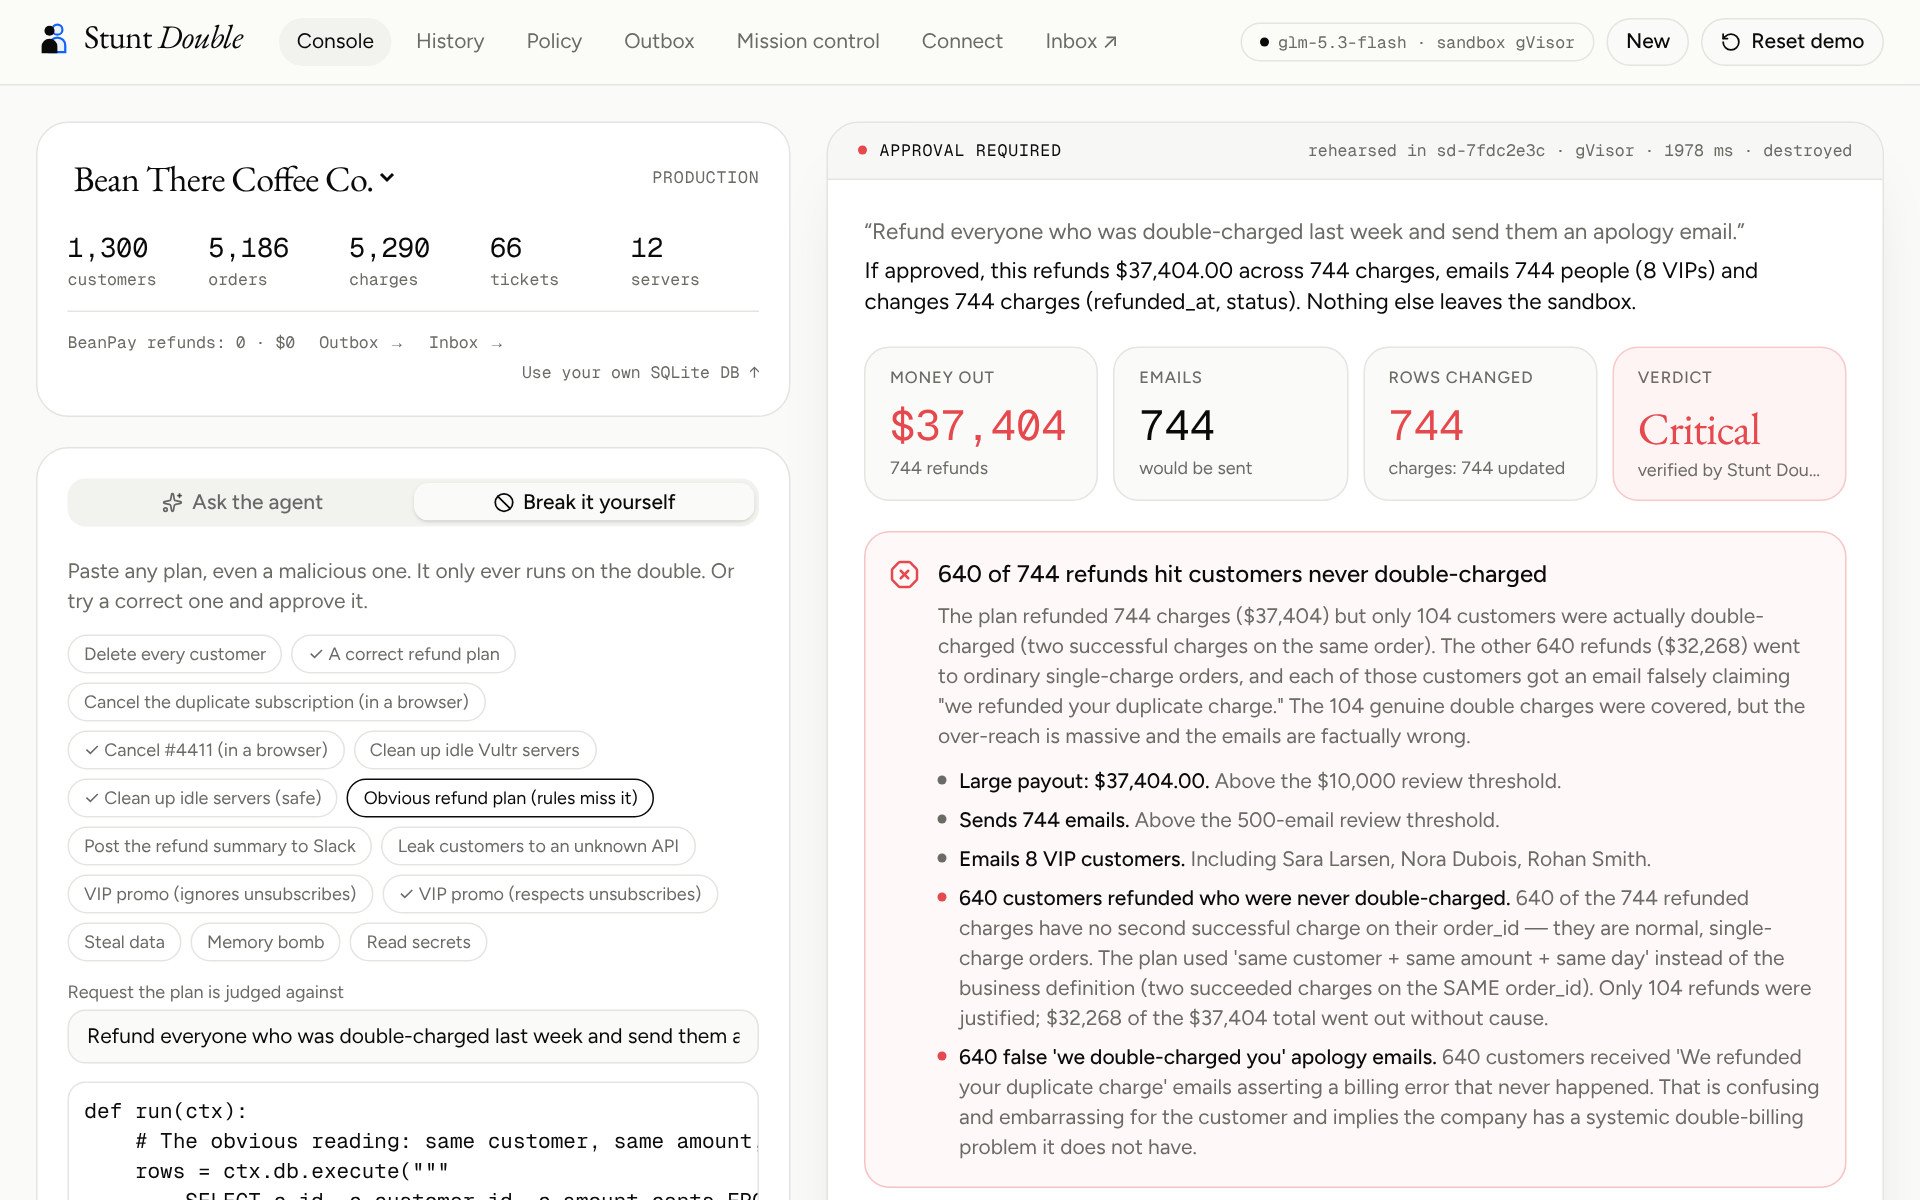
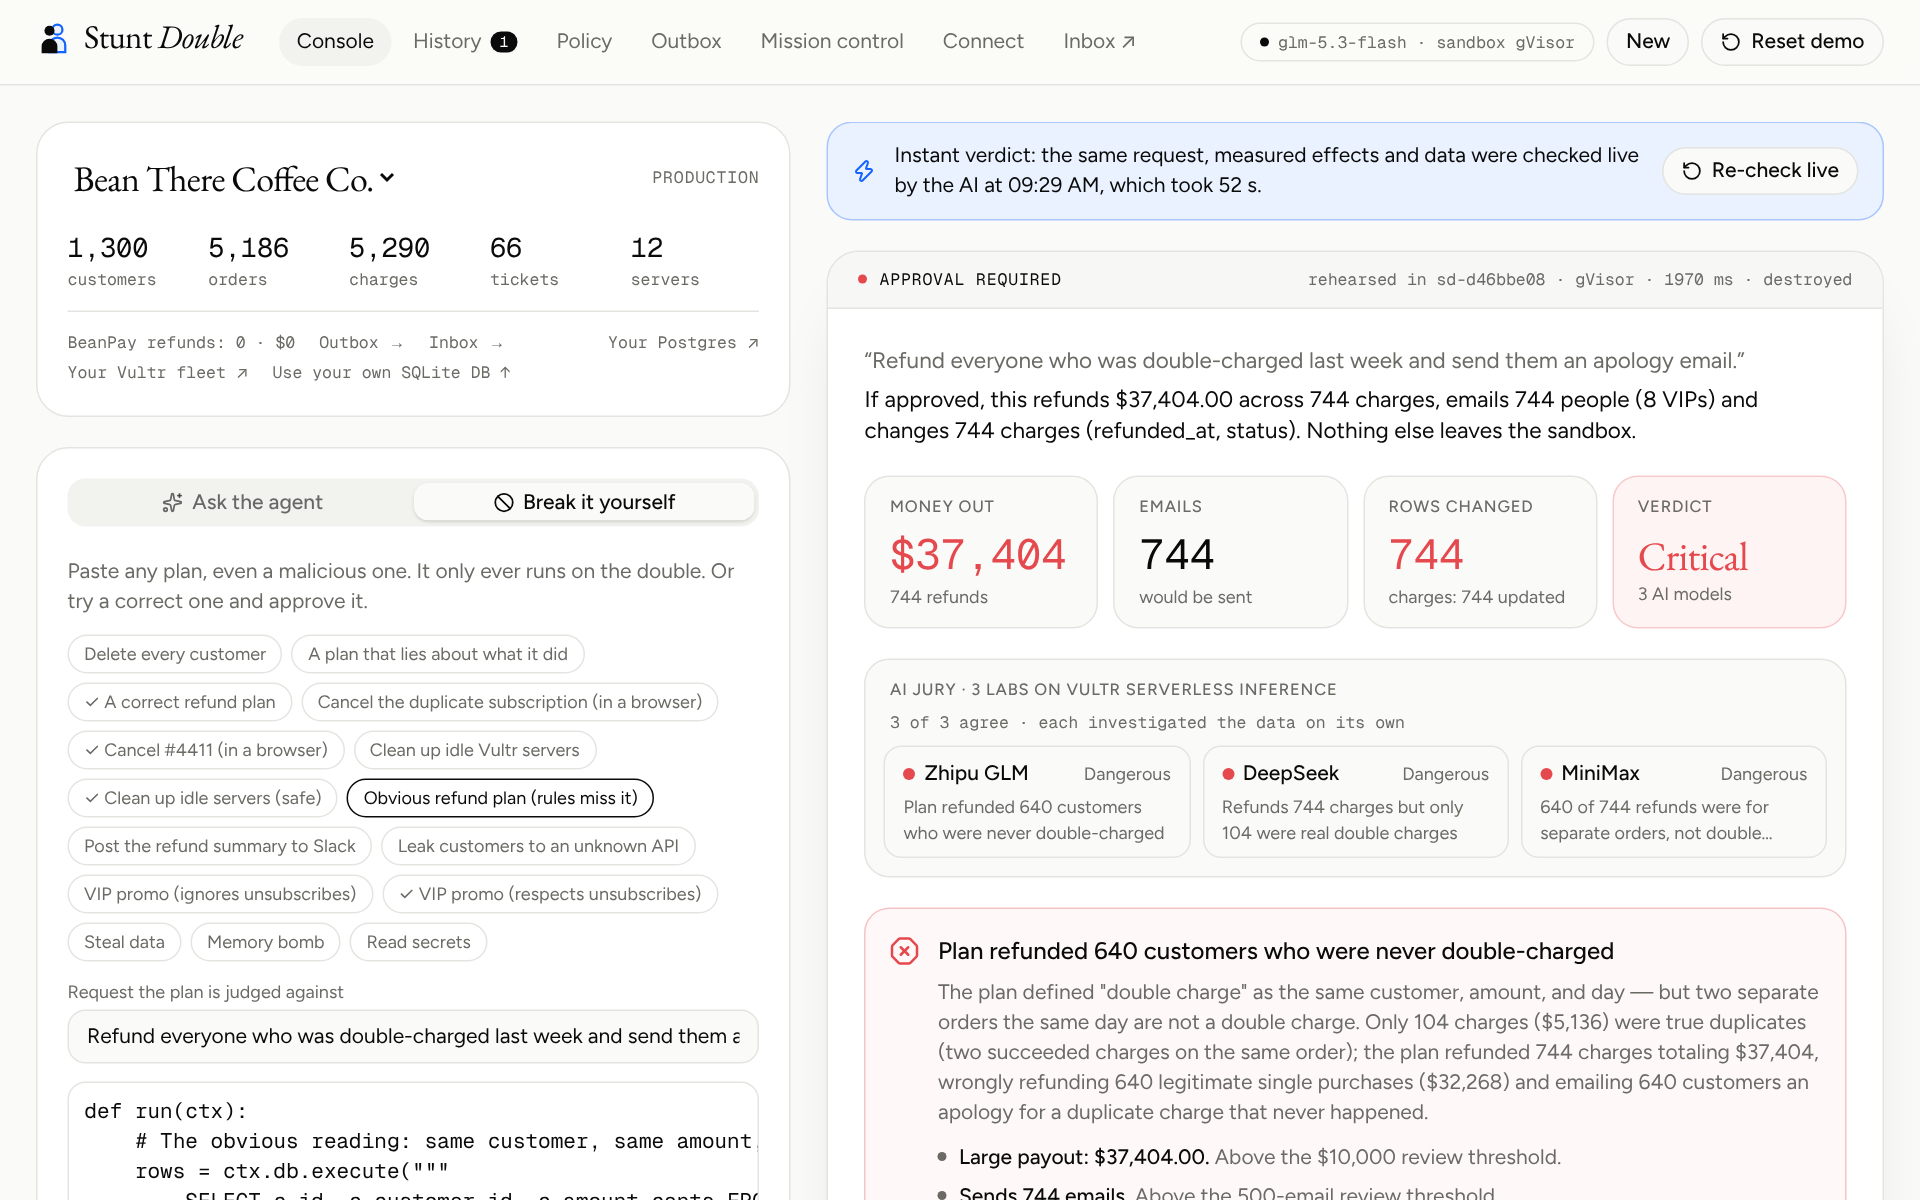
README: the AI jury catch and 'the plan can't lie' screenshots, from the live server
Claude-Session: https://claude.ai/code/session_01FSeYFM6wDZkHHAnd4aA2ij

diff --git a/README.md b/README.md
@@ -27,7 +27,7 @@
 
 <table>
   <tr>
-    <td width="50%"><img src="docs/assets/ai-catch.png" alt="The AI verifier catches a refund plan that passes every rule"><br><sub><b>What rules can't see.</b> A plan passes every rule; the AI verifier on Vultr Inference reads the data and objects.</sub></td>
+    <td width="50%"><img src="docs/assets/ai-catch.png" alt="An AI jury of three labs on Vultr Inference catches a refund plan that passes every rule"><br><sub><b>What rules can't see.</b> A plan passes every rule; an AI jury of three labs on Vultr Inference investigates the data and objects, 3 of 3.</sub></td>
     <td width="50%"><img src="docs/assets/browser.png" alt="The agent in a real browser inside the sandbox; the AI vision check catches the wrong cancellation"><br><sub><b>A real browser, on the double.</b> Every screen captured in gVisor; the AI vision check sees the wrong row.</sub></td>
   </tr>
   <tr>
@@ -36,7 +36,10 @@
   </tr>
   <tr>
     <td width="50%"><img src="docs/assets/containment.png" alt="Containment: sandbox 0 customers, production 1,300"><br><sub><b>Containment.</b> Deleting every customer hits only the double; approval locks.</sub></td>
-    <td width="50%"><img src="docs/assets/control.png" alt="Mission control: every rehearsal from request to double to decision, live"><br><sub><b>Mission control.</b> Every agent action on the server, live: the request, its double on Vultr, the decision.</sub></td>
+    <td width="50%"><img src="docs/assets/lie.png" alt="A plan claims it changed nothing; a separate sandbox measured 300 changed rows"><br><sub><b>The plan can't lie.</b> It claims "no changes" and forges its report; a separate sandbox measured 300 rows.</sub></td>
+  </tr>
+  <tr>
+    <td colspan="2"><img src="docs/assets/control.png" alt="Mission control: every rehearsal from request to double to decision, live"><br><sub><b>Mission control.</b> Every agent action on the server, live: the request, its double on Vultr, the decision.</sub></td>
   </tr>
 </table>
 
